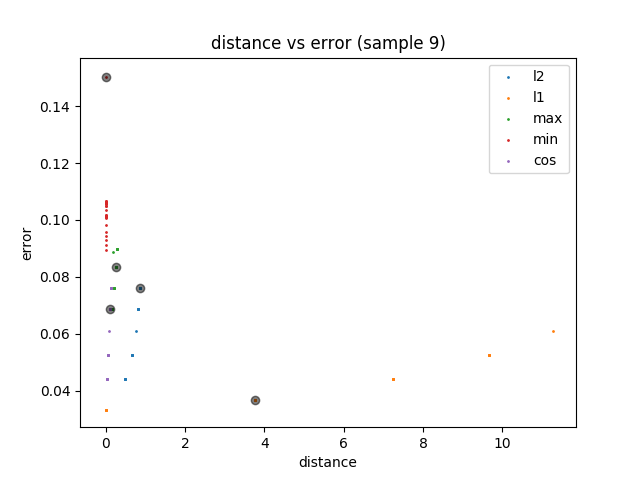
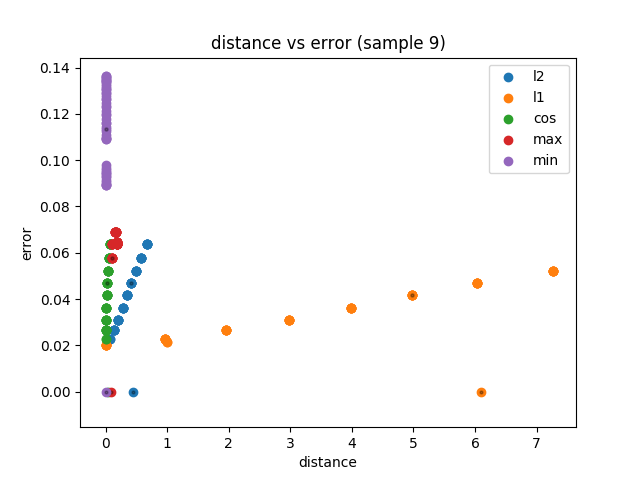
t

diff --git a/RNN/utils/association_evaluation.py b/RNN/utils/association_evaluation.py
@@ -506,11 +506,11 @@ def plot_best_distance_function(model, data, data_iterator, n=50):
 			for k in range(n):
 				errors[i,k] = metrics.__pose_seq_error(preds[k,:,:-model.label_dim],data[idx[j],:,:-model.label_dim])
 				dists[i,k] = metrics.__distance__(ls[w_i[k]], z_true, mode=i)
-			errors[i,-1] = 0
+			errors[i,-1] = -0.5
 			dists[i,-1] = metrics.__distance__(ls[w_i[0]], z_ref, mode=i)
-			plt.scatter(dists[i], errors[i], label=dist_name)
-			plt.scatter(dists[i,:1], errors[i,:1], c='black', alpha='0.3', s=5)
-			plt.scatter(dists[i,-1:], errors[i,-1:], c='black', alpha='0.3', s=4)
+			plt.scatter(dists[i], errors[i], label=dist_name, s=10)
+			plt.scatter(dists[i,:1], errors[i,:1], c='black', alpha='0.3', s=15)
+			plt.scatter(dists[i,-1:], errors[i,-1:], c='black', alpha='0.3', s=15)
 
 		# for k in range(n):
 		# 	plt.plot(dists[:,k], errors[:,k], lw=2, alpha=0.5, color='black', ls='--')
